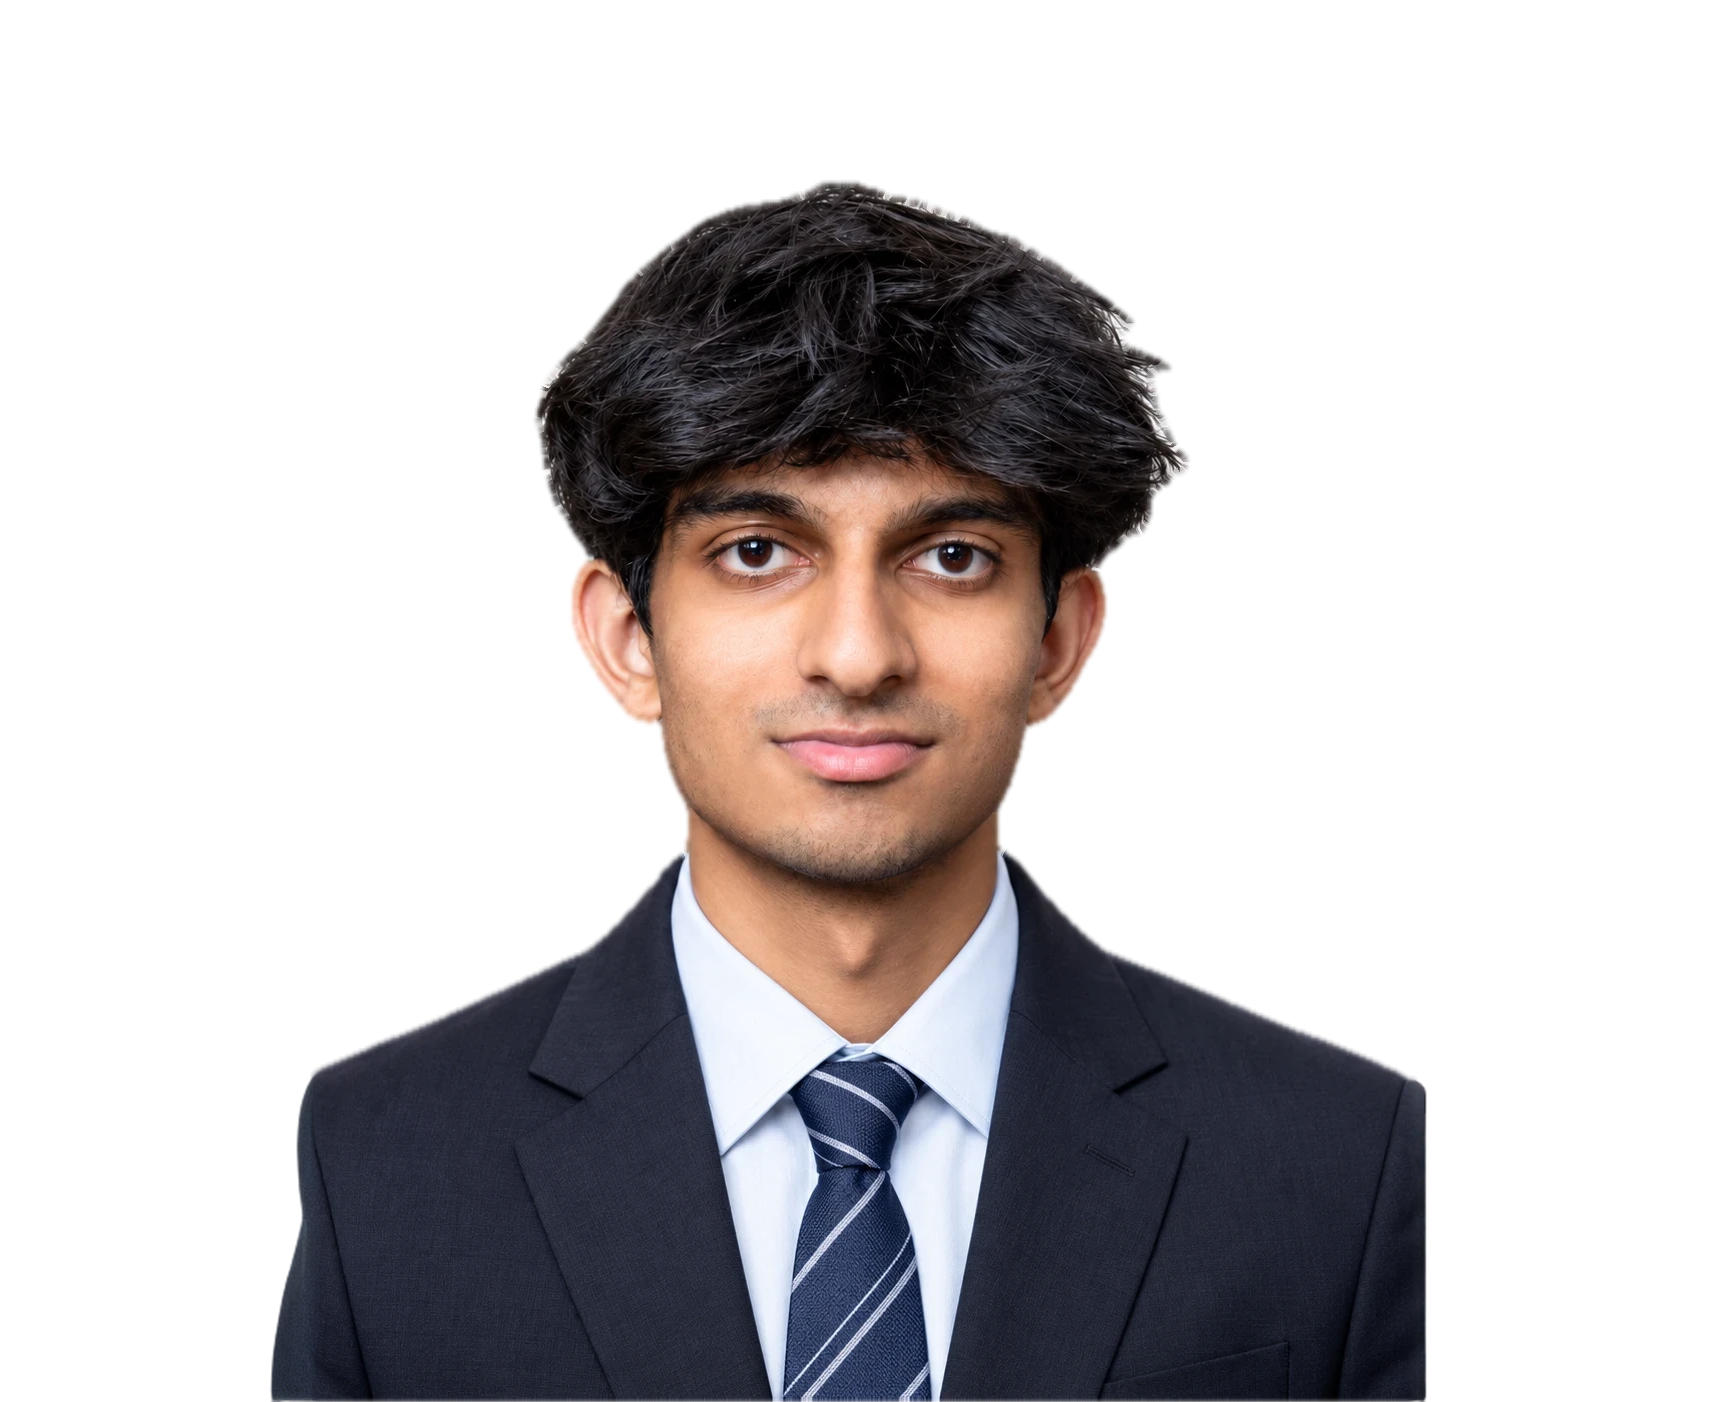
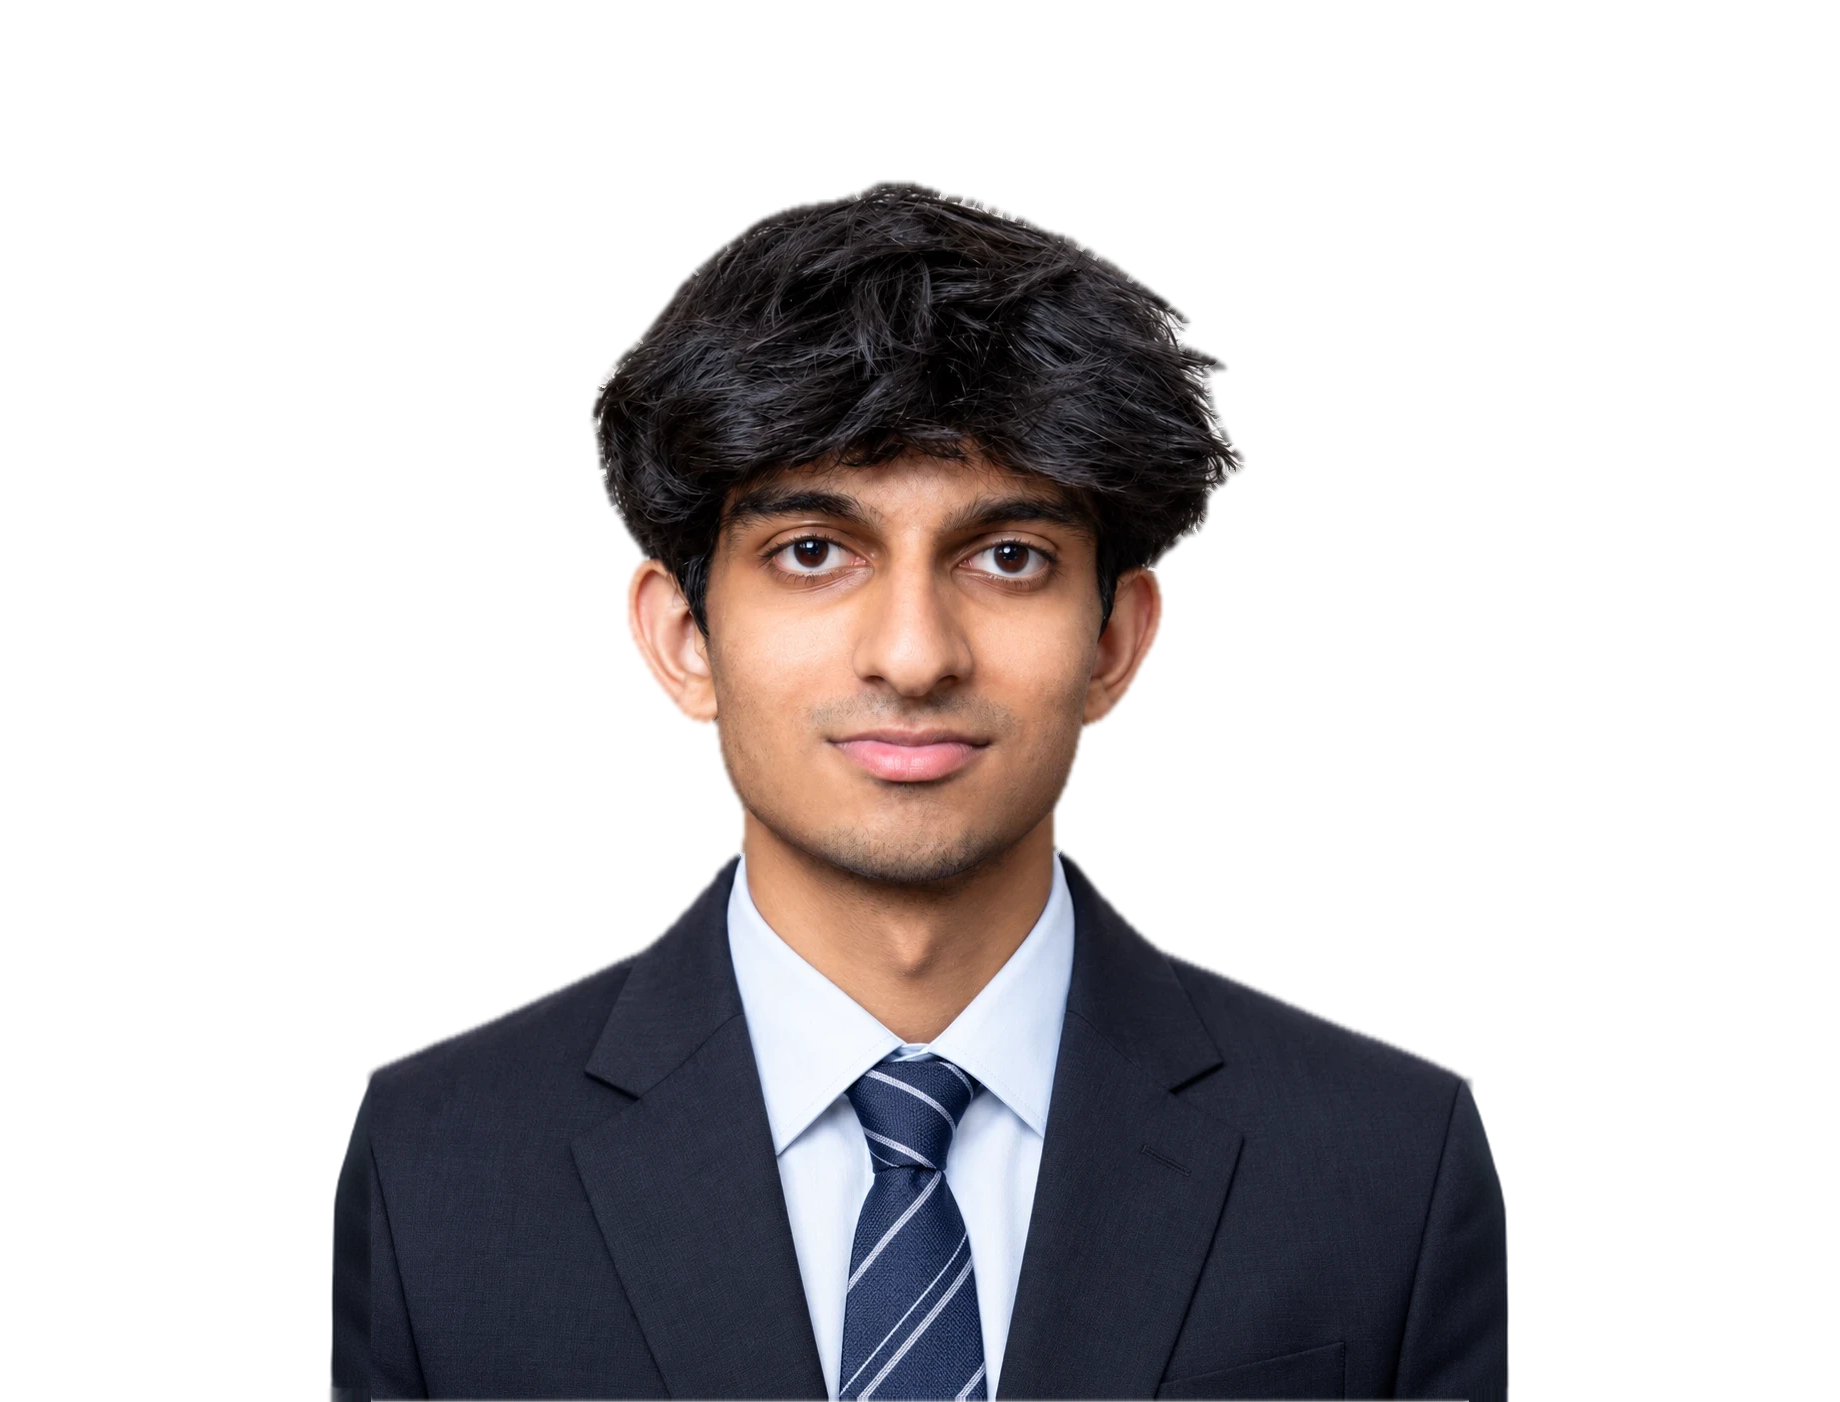
feat: broader, natural hero shoulders (mirrored guide-painted); softer project screenshot corners

diff --git a/scripts/portrait/outpaint.py b/scripts/portrait/outpaint.py
@@ -28,7 +28,7 @@ from pathlib import Path
 import numpy as np
 import torch
 from diffusers import AutoencoderKL, AutoPipelineForInpainting
-from PIL import Image
+from PIL import Image, ImageDraw, ImageOps
 from rembg import new_session, remove
 from scipy.ndimage import distance_transform_edt
 
@@ -36,7 +36,10 @@ ROOT = Path(__file__).resolve().parents[2]
 SOURCE = ROOT / "scripts" / "portrait" / "cutout.png"
 
 # Added to each side, as a share of the original width: enough for the shoulders to round off into the arms.
-EXTEND = 0.27
+EXTEND = 0.32
+# How far the shoulder outline reaches past the original's side, as a share of its width: a natural shoulder is about
+# three heads wide, and the original is cut off before its shoulders end.
+REACH = 0.21
 # How far the painted area reaches into the original, in pixels, so the seam can be blended.
 OVERLAP = 12
 # Each side is painted in its own crop this tall (from the bottom) and this much wider than the new strip.
@@ -64,9 +67,42 @@ def decontaminate(rgba: np.ndarray) -> np.ndarray:
     return out
 
 
+def shoulder_guide(cutout: Image.Image, pad: int, wide: tuple[int, int], reach: int) -> tuple[Image.Image, tuple]:
+    """
+    Draws the left shoulder as a flat suit-coloured shape on the wide canvas, for the painting to refine, and returns
+    it as an RGBA layer with its jacket colour. The outline carries on from the original's slope, flattens over the
+    shoulder, rounds off and drops straight down the arm; SDXL alone tends to stop after a few pixels.
+    """
+    width, height = cutout.size
+    rgba = np.asarray(cutout)
+    solid = rgba[..., 3] > 200
+    top = lambda c: int(np.argmax(solid[:, c]))
+    y0 = np.mean([top(c) for c in range(4)])
+    slope = max(0.0, (y0 - np.mean([top(c) for c in range(56, 60)])) / 57)
+
+    # Cubic Bezier from the original's edge to the outermost point of the shoulder, which leaves going straight down.
+    p0 = np.array([pad, y0])
+    p3 = np.array([pad - reach, y0 + reach * (slope * 0.55 + 0.42)])
+    p1 = p0 + np.array([-reach * 0.5, reach * 0.5 * slope * 0.55])
+    p2 = np.array([p3[0], p3[1] - reach * 0.42])
+    t = np.linspace(0, 1, 80)[:, None]
+    curve = (1 - t) ** 3 * p0 + 3 * (1 - t) ** 2 * t * p1 + 3 * (1 - t) * t**2 * p2 + t**3 * p3
+    outline = [*map(tuple, curve), (p3[0], height), (pad + OVERLAP, height), (pad + OVERLAP, y0)]
+
+    edge = rgba[int(y0) + 80 :, :30]
+    colour = tuple(int(v) for v in np.median(edge[edge[..., 3] > 250][:, :3], axis=0))
+    layer = Image.new("RGBA", wide, (0, 0, 0, 0))
+    shape = Image.new("L", wide, 0)
+    ImageDraw.Draw(shape).polygon(outline, fill=255)
+    layer.paste(Image.new("RGBA", wide, colour + (255,)), (0, 0), shape)
+    return layer, colour
+
+
 def main() -> None:
     parser = argparse.ArgumentParser()
     parser.add_argument("--seed", type=int, default=7)
+    parser.add_argument("--strength", type=float, default=0.85, help="how far the painting may depart from the guide")
+    parser.add_argument("--reach", type=float, default=REACH, help="shoulder reach past the original, share of width")
     parser.add_argument("--extend", type=float, default=EXTEND, help="added to each side, as a share of the width")
     parser.add_argument("--out", type=Path, default=ROOT / "src" / "assets" / "portrait.png")
     args = parser.parse_args()
@@ -78,6 +114,10 @@ def main() -> None:
 
     # The original on its backdrop, centred on the wider canvas; the mask is everything new, plus the overlap.
     canvas = Image.new("RGB", wide, BACKDROP)
+    reach = round(width * args.reach)
+    # Only the right shoulder is painted; the left is its mirror image (see below), so the two always match.
+    guide, _ = shoulder_guide(ImageOps.mirror(cutout), pad, wide, reach)
+    canvas.paste(ImageOps.mirror(guide), (0, 0), ImageOps.mirror(guide))
     canvas.paste(cutout, (pad, 0), cutout)
     mask = Image.new("L", wide, 255)
     mask.paste(0, (pad + OVERLAP, 0, pad + width - OVERLAP, height))
@@ -90,7 +130,7 @@ def main() -> None:
 
     crop_h = round(height * CROP_HEIGHT)
     crop_w = pad + round(width * CROP_INSET)
-    for side, left in (("left", 0), ("right", wide[0] - crop_w)):
+    for side, left in (("right", wide[0] - crop_w),):
         box = (left, height - crop_h, left + crop_w, height)
         # SDXL works best at about a megapixel, in multiples of 8.
         scale = (1024 * 1024 / (crop_w * crop_h)) ** 0.5
@@ -102,13 +142,21 @@ def main() -> None:
             mask_image=mask.crop(box).resize(size, Image.NEAREST),
             width=size[0],
             height=size[1],
-            strength=0.99,
+            strength=args.strength,
             guidance_scale=7.0,
             num_inference_steps=40,
             generator=torch.Generator("cpu").manual_seed(args.seed + (side == "right")),
         ).images[0]
         canvas.paste(painted.resize((crop_w, crop_h), Image.LANCZOS), box[:2])
         print(f"Painted the {side} shoulder")
+
+    # Mirror it onto the left, moved up or down so its top meets the original's left edge at the same height.
+    alpha_in = np.asarray(cutout)[..., 3] > 200
+    seam = OVERLAP + 4
+    dy = int(np.argmax(alpha_in[:, seam])) - int(np.argmax(alpha_in[:, width - 1 - seam]))
+    strip = ImageOps.mirror(canvas).crop((0, 0, pad + OVERLAP, height))
+    rows = np.clip(np.arange(height) - dy, 0, height - 1)  # the edge rows repeat rather than wrapping round
+    canvas.paste(Image.fromarray(np.asarray(strip)[rows]), (0, 0))
 
     # Cut the painted parts out of their backdrop.
     session = new_session("birefnet-portrait")
@@ -124,6 +172,11 @@ def main() -> None:
     rgb = np.asarray(canvas, dtype=np.float32) / 255
     out_rgb = rgb * (1 - keep[..., None]) + orig[..., :3] * keep[..., None]
     out_a = alpha * (1 - keep) + orig[..., 3] * keep
+    # The cut-out frays along the bottom edge, where the suit runs out of the frame: repeat the last good row there.
+    new = np.ones(wide[0], dtype=bool)
+    new[pad + OVERLAP : pad + width - OVERLAP] = False
+    out_rgb[-12:, new] = out_rgb[-13, new]
+    out_a[-12:, new] = out_a[-13, new]
     # Above the shoulders, the new strips are backdrop: make sure nothing faint is left there.
     out_a = np.where(out_a < 0.02, 0, out_a)
     result = Image.fromarray(
